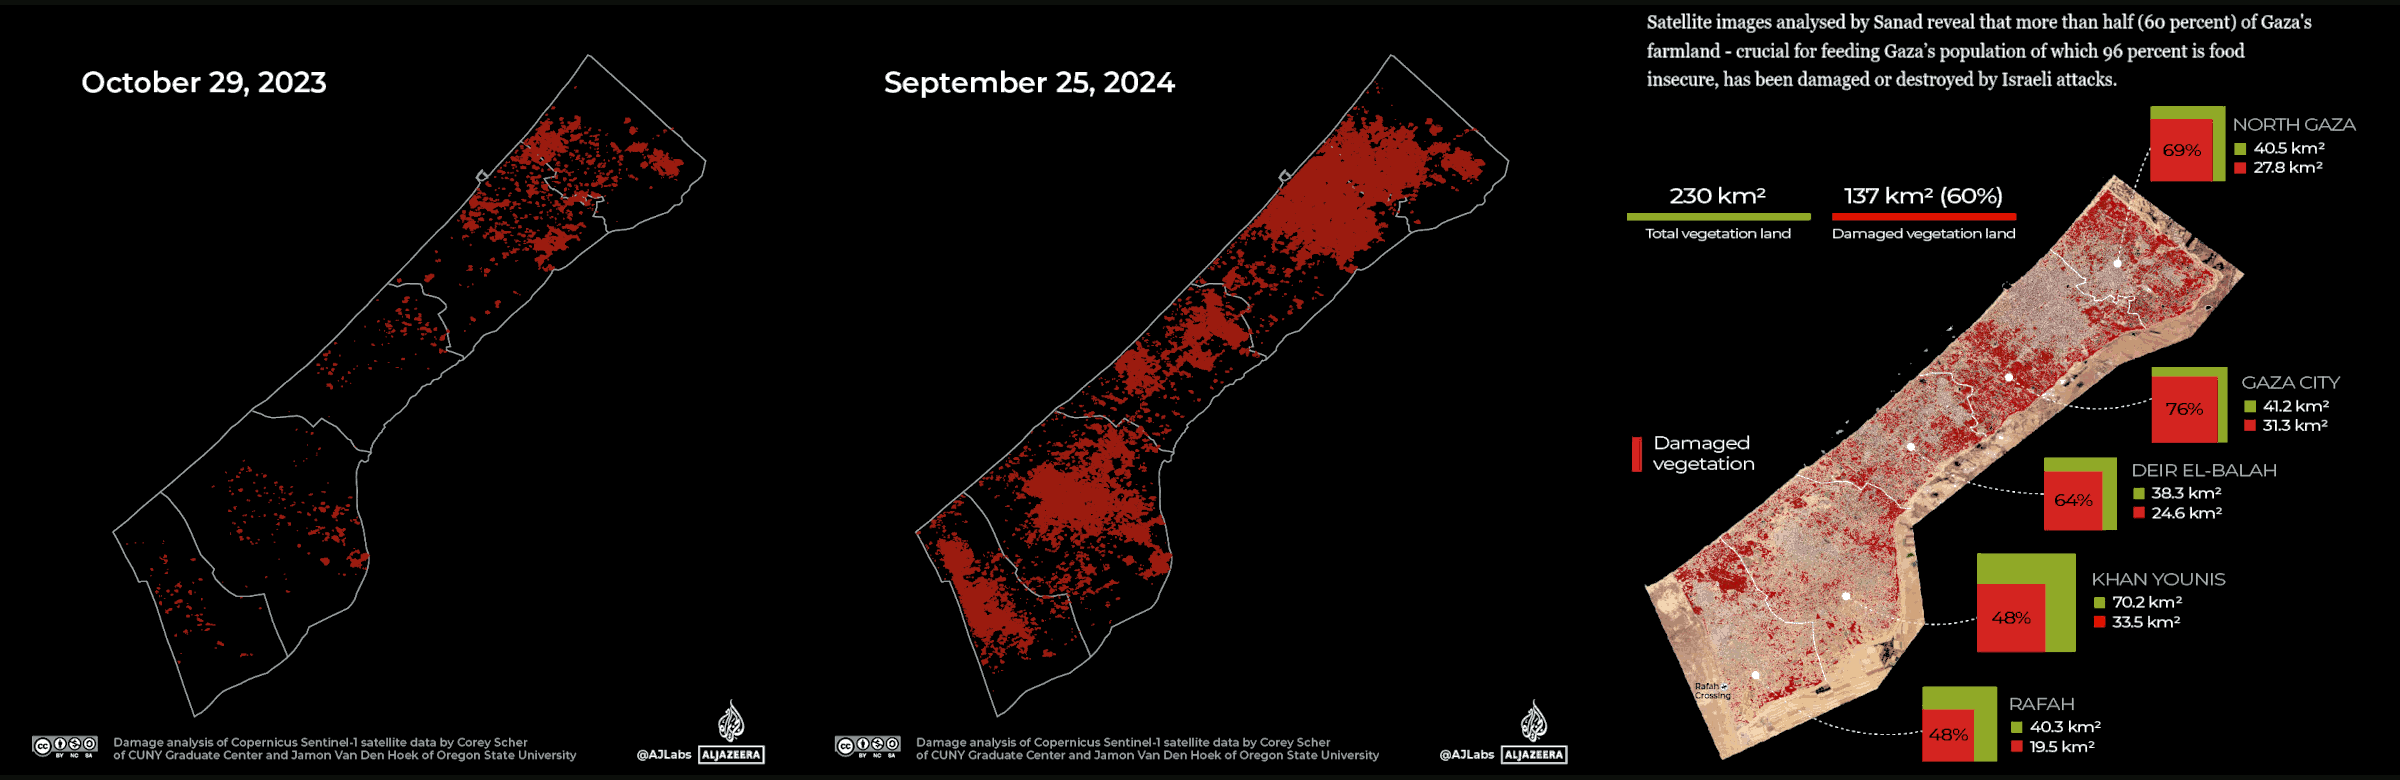
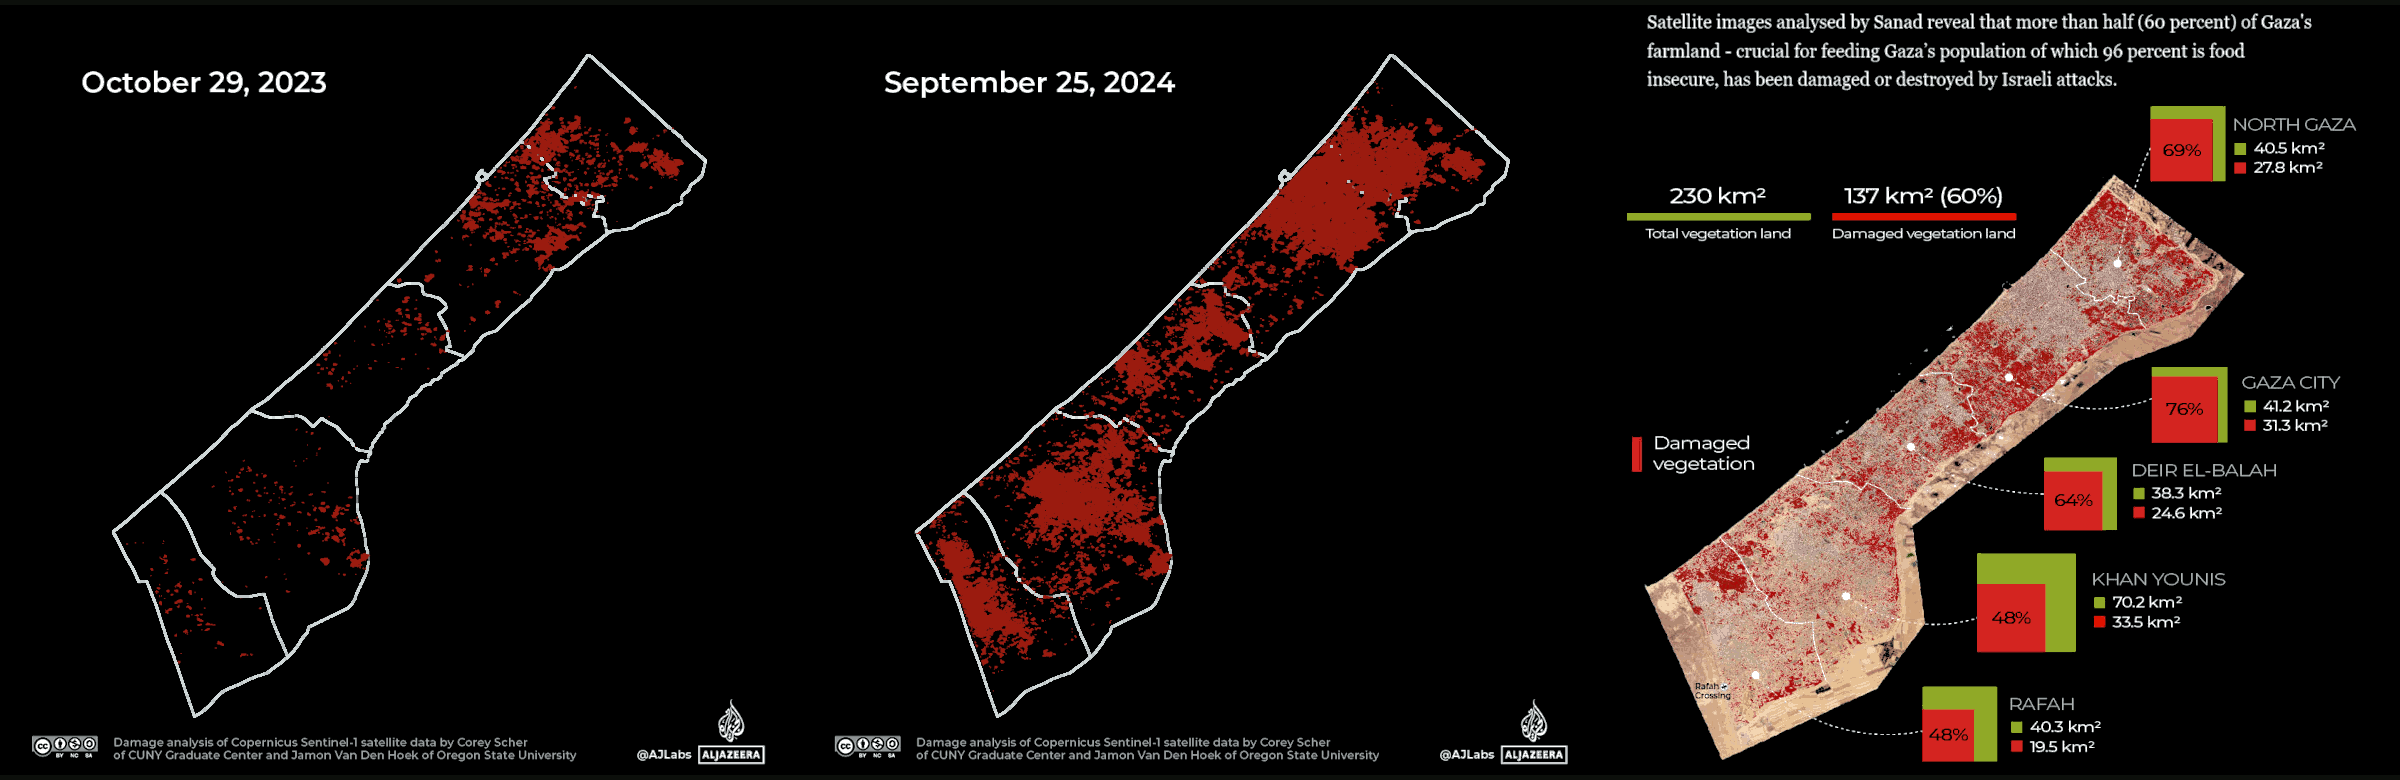
334-raccolta-di-post-sulla-crisi-di-gaza.md: 3rd draft, p.2

diff --git a/html/334-raccolta-di-post-sulla-crisi-di-gaza.html b/html/334-raccolta-di-post-sulla-crisi-di-gaza.html
@@ -18,7 +18,7 @@
 <style>#printlink { display: inline; } @page { size: legal; margin: 0.50in 13.88mm 0.50in 13.88mm; zoom: 100%; } @media print { html { zoom: 100%; } }</style>
 <p class='topbar'></p>
 <div class='topbar' width='800px' translate='no'><b id='menu' onClick='nextStylesheet()'>&thinsp;&#9783;&thinsp;&Ropf;</b> &thinsp;&mdash;&thinsp; &#8543;&#8239;release: <b class='topbar'>2024-07-02&nbsp;<sup class='date-type topbar' id='datenote'>(&hairsp;<a href='#date-legenda' class='date-type topbar'>1</a>&hairsp;)</sup></b>  &thinsp;&mdash;&thinsp; rev.: <b class='topbar
-'>6</b rev_num='
+'>7</b rev_num='
 '> &thinsp;&mdash;&thinsp; transl.:&nbsp; <a class='topbar' href='https://robang74-github-io.translate.goog/roberto-a-foglietta/html/334-raccolta-di-post-sulla-crisi-di-gaza?_x_tr_sl=it&_x_tr_tl=en&_x_tr_hl=en-EN&_x_tr_pto=wapp' target='_blank' rel='noopener noreferrer'>EN</a> &nbsp;<b>&middot;</b>&nbsp; <a class='topbar' href='https://robang74-github-io.translate.goog/roberto-a-foglietta/html/334-raccolta-di-post-sulla-crisi-di-gaza?_x_tr_sl=it&_x_tr_tl=de&_x_tr_hl=de-DE&_x_tr_pto=wapp' target='_blank' rel='noopener noreferrer'>DE</a> &nbsp;<b>&middot;</b>&nbsp; <a class='topbar' href='https://robang74-github-io.translate.goog/roberto-a-foglietta/html/334-raccolta-di-post-sulla-crisi-di-gaza?_x_tr_sl=it&_x_tr_tl=fr&_x_tr_hl=fr-FR&_x_tr_pto=wapp' target='_blank' rel='noopener noreferrer'>FR</a> &nbsp;<b>&middot;</b>&nbsp; <a class='topbar' href='https://robang74-github-io.translate.goog/roberto-a-foglietta/html/334-raccolta-di-post-sulla-crisi-di-gaza?_x_tr_sl=it&_x_tr_tl=es&_x_tr_hl=es-ES&_x_tr_pto=wapp' target='_blank' rel='noopener noreferrer'>ES</a> &thinsp;&mdash;&thinsp; goto:&nbsp; <a class='topbar' href='../index.html#index'>.&#x27F0;.</a> &nbsp;<b>&middot;</b>&nbsp; <a class='topbar' href='../../chatbots-for-fun/index.html'target=_blank>C4F</a> &nbsp;<b>&middot;</b>&nbsp; <a class='topbar' href='../../chatgpt-answered-prompts/index.html'target=_blank>Q&A</a> <span id='printlink'>&thinsp;&mdash;&thinsp; <b>⎙</b>&hairsp;: <a aria-label='print this page' class='topbar' href='javascript:window.print()'>PDF</a></span>&nbsp;</div>
 <div id="firstdiv">
 <p class='topbar'></p>
@@ -142,7 +142,7 @@ La scoperta del giacimento "Aphrodite 2" (annunciata a giugno 2023, al largo di 
 <p></p>
 <H3 id="la-situazione-nella-striscia-di-gaza">La situazione nella striscia di Gaza</H3>
 <p></p>
-<div align="center"><img class="wbsketch paleinv" src="../img/334-raccolta-di-post-sulla-crisi-di-gaza-img-002.png"><br/></div>
+<div align="center"><img class="bwsketch darkinv" src="../img/334-raccolta-di-post-sulla-crisi-di-gaza-img-002.png"><br/></div>
 <p></p>
 Quante sono, in totale, le vittime, morti e feriti, fra i palestinesi a Gaza dalla crisi del 7 ottobre 2023?
 <p></p>

diff --git a/334-raccolta-di-post-sulla-crisi-di-gaza.md b/334-raccolta-di-post-sulla-crisi-di-gaza.md
@@ -123,7 +123,7 @@ La scoperta del giacimento "Aphrodite 2" (annunciata a giugno 2023, al largo di 
 
 ### La situazione nella striscia di Gaza
 
-<div align="center"><img class="wbsketch paleinv" src="img/334-raccolta-di-post-sulla-crisi-di-gaza-img-002.png"><br/></div>
+<div align="center"><img class="bwsketch darkinv" src="img/334-raccolta-di-post-sulla-crisi-di-gaza-img-002.png"><br/></div>
 
 Quante sono, in totale, le vittime, morti e feriti, fra i palestinesi a Gaza dalla crisi del 7 ottobre 2023?
 
